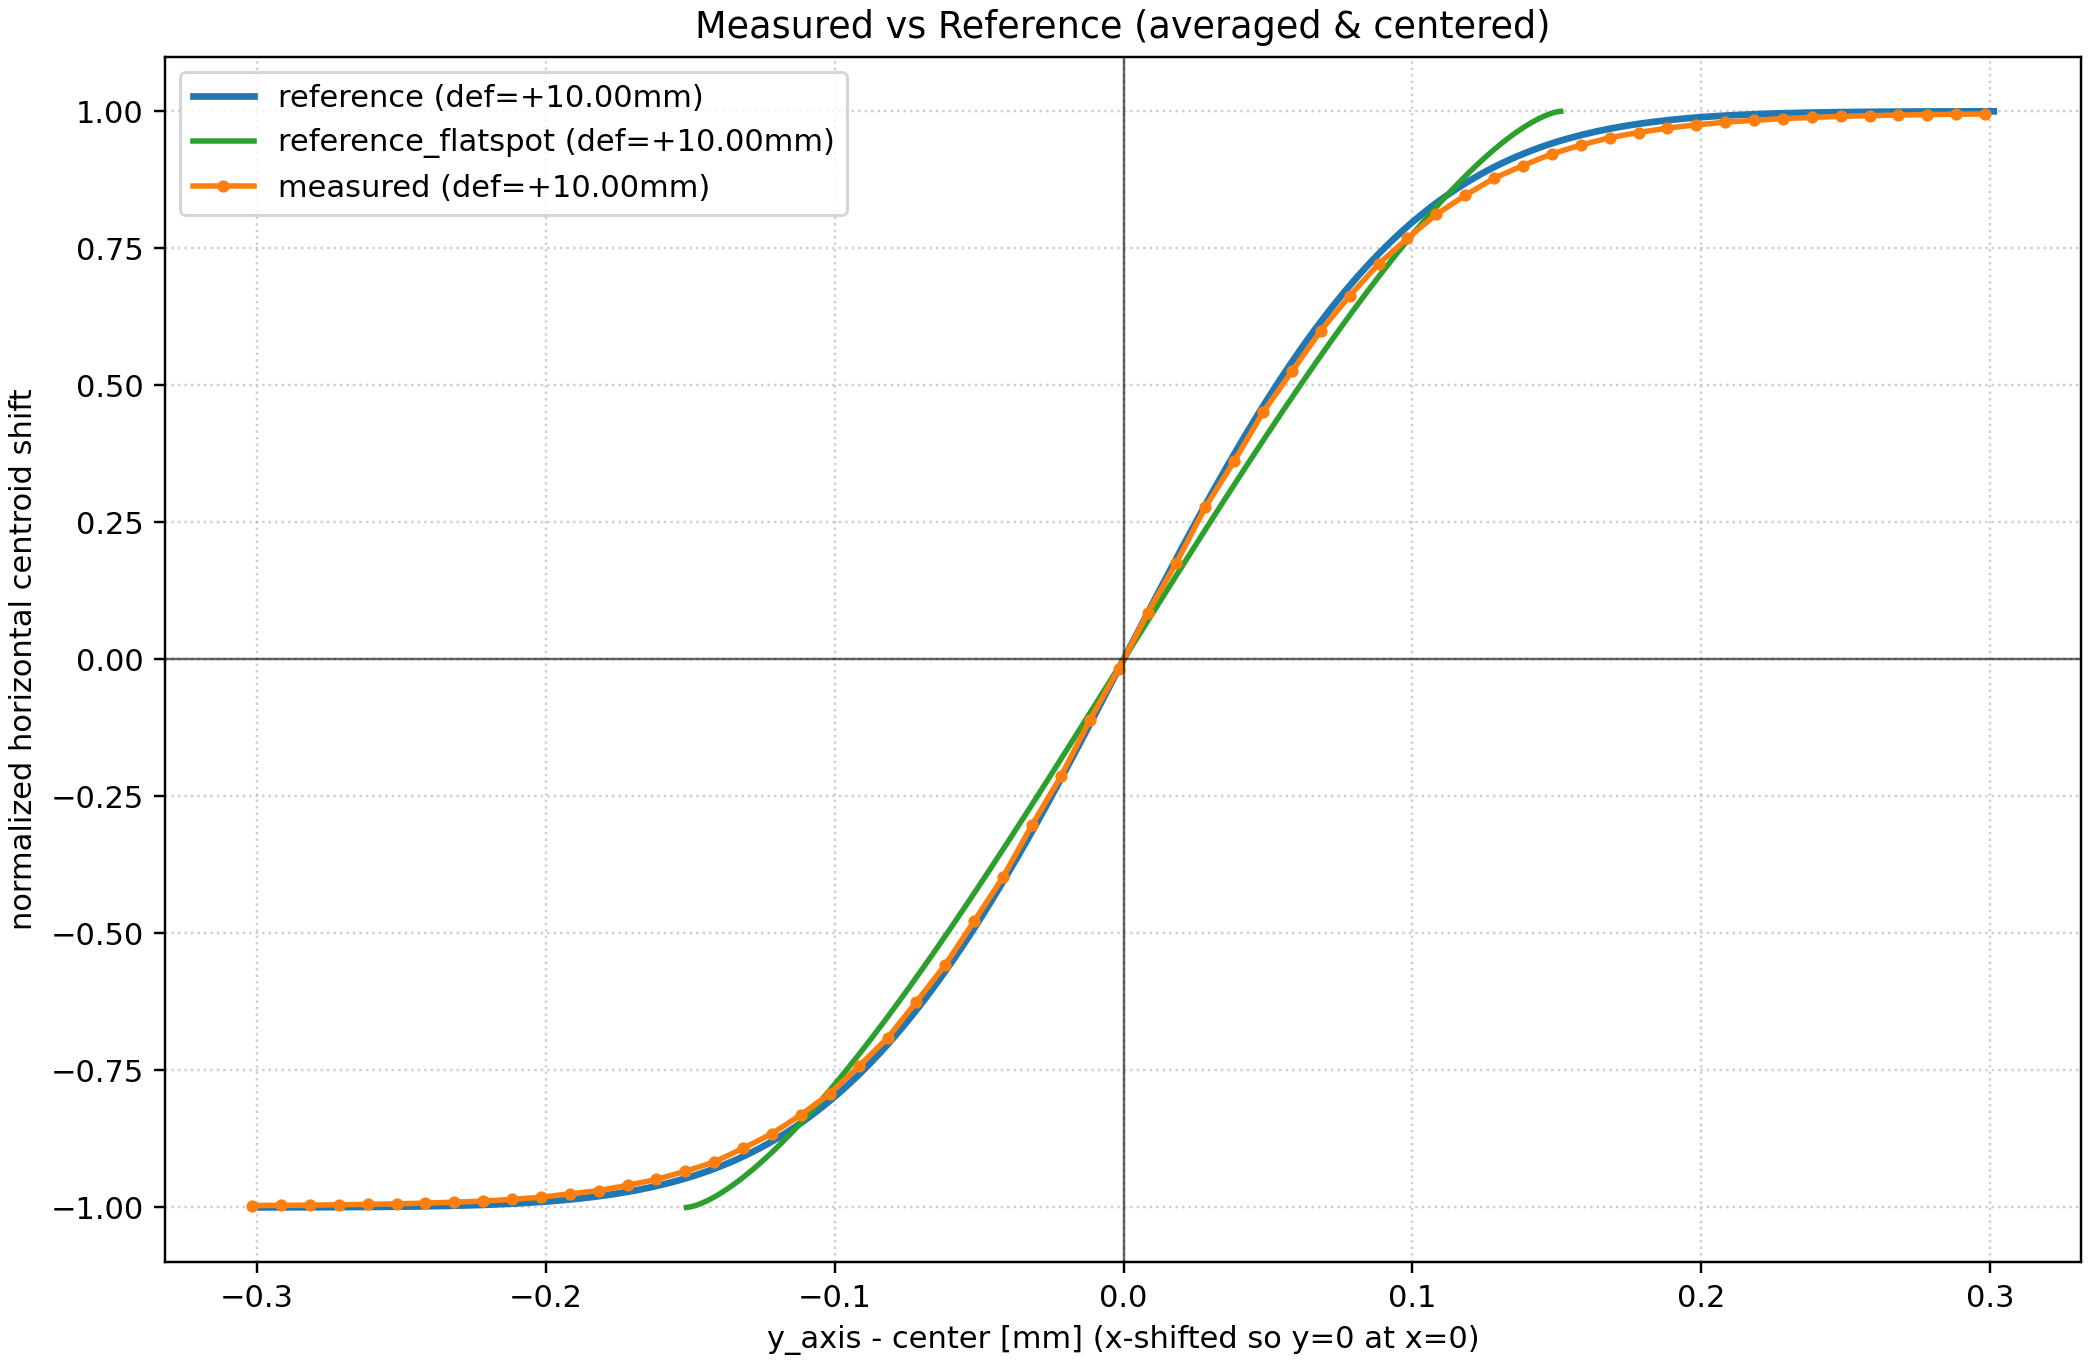
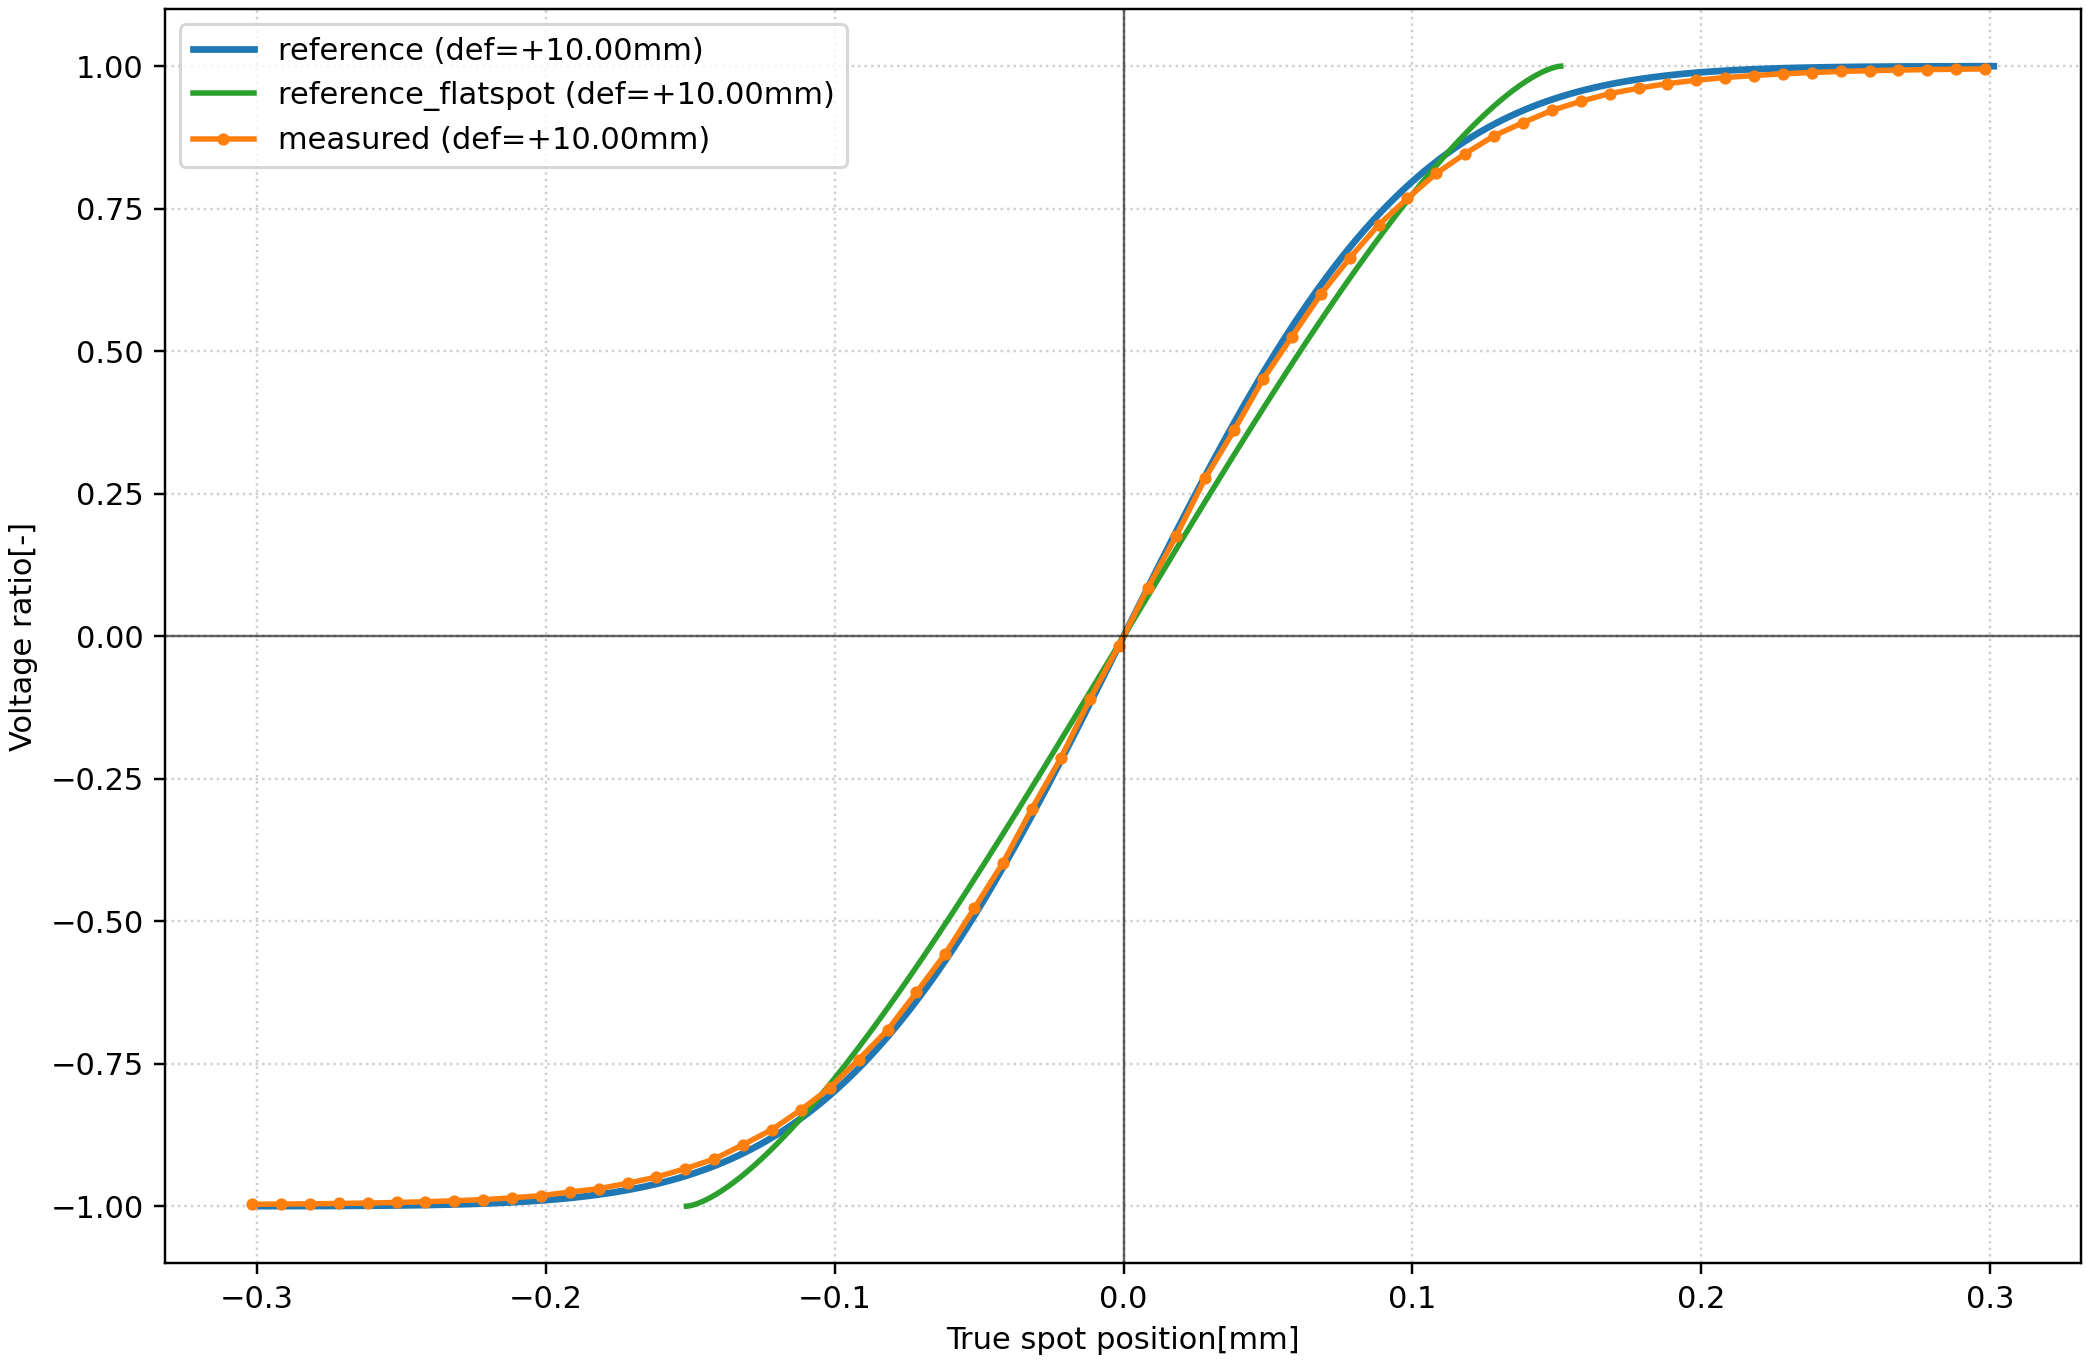
compareグラフ描画更新

diff --git a/compare_defocus.py b/compare_defocus.py
@@ -27,6 +27,7 @@ from typing import List, Optional, Tuple
 import numpy as np
 import pandas as pd
 import matplotlib.pyplot as plt
+from matplotlib.lines import Line2D
 import csv
 import math
 
@@ -376,9 +377,8 @@ def plot_comparison(
         ax.plot(x_meas / 1000.0, y_meas, color="tab:orange", linewidth=1.8, marker="o", markersize=3.0, label=f"measured (def={defocus_mm:+.2f}mm)")
     ax.axvline(0.0, color="black", linewidth=0.8, alpha=0.6)
     ax.axhline(0.0, color="black", linewidth=0.8, alpha=0.6)
-    ax.set_xlabel("y_axis - center [mm] (x-shifted so y=0 at x=0)")
-    ax.set_ylabel("normalized horizontal centroid shift")
-    ax.set_title("Measured vs Reference (averaged & centered)")
+    ax.set_xlabel("True spot position[mm]")
+    ax.set_ylabel("Voltage ratio[-]")
     ax.grid(True, linestyle=":", alpha=0.6)
     ax.legend()
     if report_metrics and len(metrics_text_lines) > 0:
@@ -502,6 +502,36 @@ def main() -> None:
         default=2.27,
         help="Diameter of collimated beam before lens in mm (default: 2.27)",
     )
+    parser.add_argument(
+        "--make-grid",
+        action="store_true",
+        default=True,
+        help="Create a multi-panel figure of all defocus values (default: on)",
+    )
+    parser.add_argument(
+        "--no-grid",
+        dest="make_grid",
+        action="store_false",
+        help="Disable creation of the multi-panel figure",
+    )
+    parser.add_argument(
+        "--grid-rows",
+        type=int,
+        default=3,
+        help="Grid rows for multi-panel figure (default: 3)",
+    )
+    parser.add_argument(
+        "--grid-cols",
+        type=int,
+        default=2,
+        help="Grid cols for multi-panel figure (default: 2)",
+    )
+    parser.add_argument(
+        "--grid-dpi",
+        type=int,
+        default=300,
+        help="DPI for multi-panel figure (default: 300)",
+    )
 
     args = parser.parse_args()
 
@@ -594,6 +624,101 @@ def main() -> None:
     csv_file_handle.close()
     if not any_plotted:
         print("No plots generated.")
+
+    # Optional: Create multi-panel figure for paper
+    if args.make_grid:
+        try:
+            rows = max(1, int(args.grid_rows))
+            cols = max(1, int(args.grid_cols))
+            num_panels = rows * cols
+            defoci = list(map(float, args.defocus_mm))[:num_panels]
+            if len(defoci) == 0:
+                print("Skip grid: no defocus values provided.")
+                return
+
+            fig, axes = plt.subplots(rows, cols, figsize=(12.0, 16.0), constrained_layout=True, sharex=True, sharey=True)
+            axes_flat = axes.ravel() if hasattr(axes, "ravel") else [axes]
+
+            for idx, def_mm in enumerate(defoci):
+                ax = axes_flat[idx]
+                measured_csv = select_measured_csv_for_defocus(args.input_dir, int(args.focus), float(def_mm))
+                if measured_csv is None:
+                    ax.text(0.5, 0.5, f"No measured\n(def={def_mm:+.2f}mm)", transform=ax.transAxes, ha="center", va="center")
+                    ax.grid(True, linestyle=":", alpha=0.6)
+                    continue
+
+                # Measured
+                df_meas = read_qd_csv(measured_csv)
+                x_meas_centered, y_meas_calc, center_y, _ = compute_centered_avg_series(df_meas)
+                x0_meas = compute_x_intercept(x_meas_centered, y_meas_calc)
+                x_meas = (x_meas_centered - x0_meas) / 1000.0
+                y_meas = y_meas_calc
+
+                # Reference
+                x_ref_um, y_ref = load_reference_series(args.reference_csv, float(def_mm))
+                x0_ref = compute_x_intercept(x_ref_um, y_ref)
+                x_ref = (x_ref_um - x0_ref) / 1000.0
+
+                # Flat-spot (optional)
+                x_flat = None
+                y_flat = None
+                if plot_flatspot and abs(float(def_mm)) > 1e-6 and flatspot_csv_path is not None:
+                    flat = load_flatspot_series_from_csv(flatspot_csv_path, float(def_mm))
+                    if flat is not None:
+                        x_flat_mm, y_flat_arr = flat
+                        try:
+                            x0_flat = compute_x_intercept(x_flat_mm, y_flat_arr)
+                        except Exception:
+                            x0_flat = 0.0
+                        x_flat = x_flat_mm - x0_flat
+                        y_flat = y_flat_arr
+
+                # Draw
+                ax.plot(x_ref, y_ref, color="tab:blue", linewidth=2.0, label="reference")
+                if x_flat is not None and y_flat is not None:
+                    ax.plot(x_flat, y_flat, color="tab:green", linewidth=1.6, label="flatspot")
+                ax.plot(x_meas, y_meas, color="tab:orange", linewidth=1.6, marker="o", markersize=2.5, label="measured")
+                ax.axvline(0.0, color="black", linewidth=0.6, alpha=0.6)
+                ax.axhline(0.0, color="black", linewidth=0.6, alpha=0.6)
+                # small panel label
+                ax.text(0.02, 0.95, f"def={float(def_mm):+.2f}mm", transform=ax.transAxes, ha="left", va="top", fontsize=9,
+                        bbox=dict(boxstyle="round,pad=0.2", facecolor="white", alpha=0.7))
+                ax.grid(True, linestyle=":", alpha=0.6)
+
+            # Axis labels for the whole figure
+            fig.supxlabel("True spot position[mm]")
+            fig.supylabel("Voltage ratio[-]")
+
+            # Build a consistent 3-item legend (reference, flatspot, measured) and place it above axes
+            legend_handles = [
+                Line2D([0], [0], color="tab:blue", linewidth=2.0, label="reference"),
+                Line2D([0], [0], color="tab:orange", linewidth=1.6, marker="o", markersize=4, label="measured"),
+            ]
+            if plot_flatspot:
+                legend_handles.insert(1, Line2D([0], [0], color="tab:green", linewidth=1.6, label="flatspot"))
+            legend = fig.legend(
+                legend_handles,
+                [h.get_label() for h in legend_handles],
+                loc="upper center",
+                bbox_to_anchor=(0.5, 1.02),
+                ncol=3 if plot_flatspot else 2,
+                frameon=True,
+                borderaxespad=0.3,
+                fontsize=10,
+                handlelength=3.0,
+            )
+            legend.get_frame().set_alpha(0.9)
+            legend.get_frame().set_facecolor("white")
+
+            grid_out = args.output_dir / "compare" / f"defocus_grid_{rows}x{cols}.png"
+            fig.savefig(grid_out, dpi=int(args.grid_dpi), bbox_inches="tight", pad_inches=0.2)
+            print(f"Saved grid: {grid_out.resolve()}")
+            if args.show:
+                plt.show()
+            else:
+                plt.close(fig)
+        except Exception as exc:
+            print(f"Grid generation failed: {exc}")
 
 
 if __name__ == "__main__":
